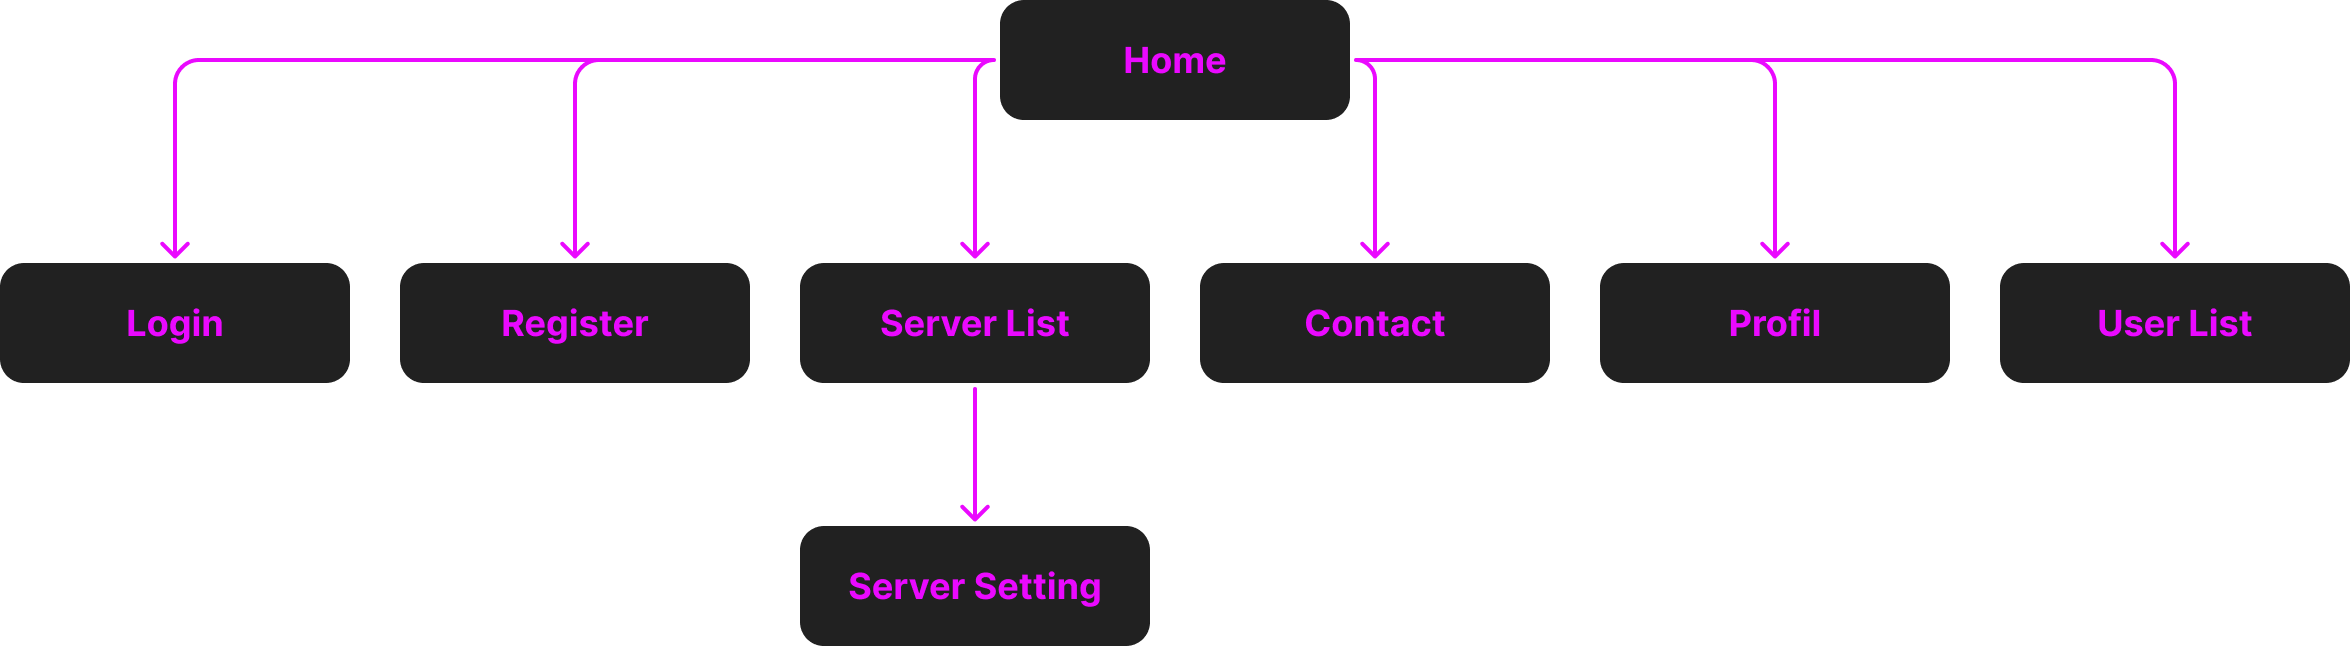
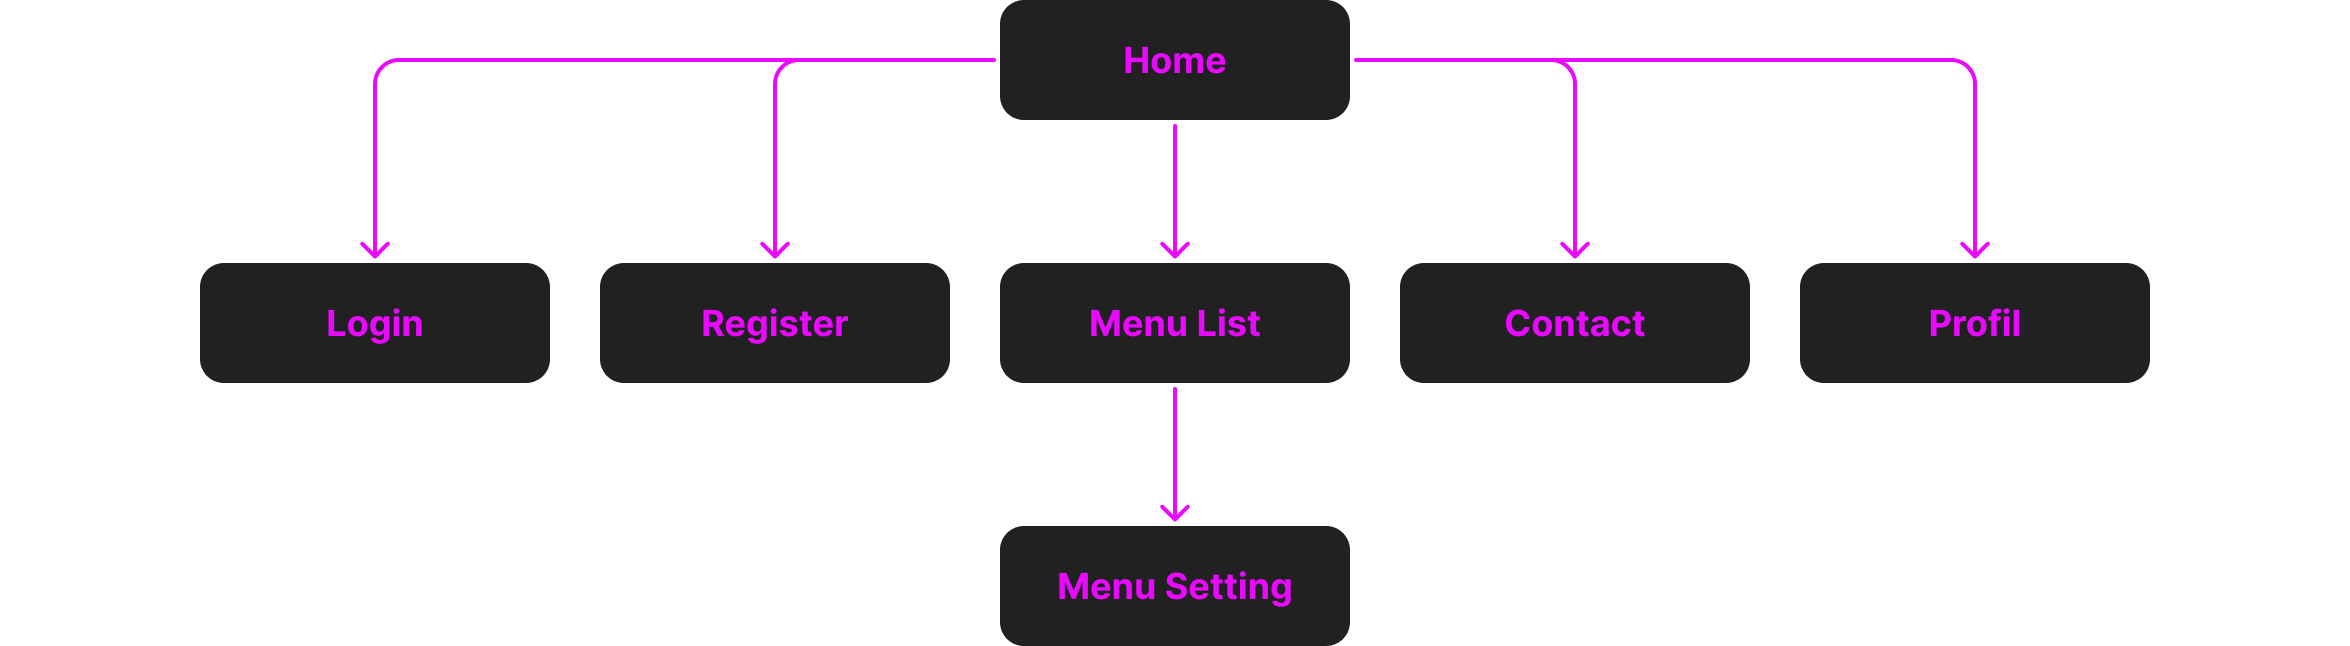
edit CdC : Update

diff --git a/README.md b/README.md
@@ -31,20 +31,24 @@
 6. **SEO & Référencement**
 7. **RGPD/Conditions d'utilisation**
 8. **Planning & suivi du projet**
-   1. *Planning*
-   2. *Groupe de trvail*
+   1. *Planning de la réalisation*
+   2. *Planning de validation*
+   3. *Groupe de trvail*
 
 ## **1. Présentation générale du projet**
 
 ### 1.1 **Contexte**
 
+A la demande d'un client, j'ai du trouvé une solution web pour répondre à sont besoin de modifier du contenu dans du code mais dans un espace no-code.
+
 Le projet « fxGuard » a pour but de permettre la modération/administration et la modification du contenu présent en jeu d’un serveur FiveM, le tout dans un espace no-code.  
 Les serveurs FiveM sont des serveurs de jeux basés sur GTA5 permettant l’ajout de fonctionnalité et de contenu, comme l’ajout de voiture, chat de proximité, etc.
 FxGuard pourra par exemple modifier le catalogue de voitures mis en vente en donnant le prix, la vitesse, une photo, etc. du véhicule directement présent dans le jeu.
 
-### 1.2 **Objectif(s) qualitatif(s) et/ou quantitatif(s) du site**
+### 1.2 **Objectif(s) qualitatif(s)**
 
-- Créer une interface graphique permettant aux administrateurs d’interagir avec le contenu présent en jeu.
+- Créer une interface lisible et facile à comprendre.
+- Avoir un site responsive pour s'adapter à tout type de support
 
 ### 1.3 **Cible(s) du site / de l'application**
 
@@ -57,9 +61,50 @@ Le site Web a pour vocation à être utilisé par une tranche de public assez va
 
 ### 2.1 **Description fonctionnelle**
 
-Lorsque l’utilisateur n’est pas authentifié, une page de promotion de l'interface avec toutes les fonctionnalités proposées sera affichée. Une partie proposera de s’inscrire ou de se connecter.
+1. Inscription
+   - Un formulaire d'inscription demandant : pseudo, e-mail et mot de passe.
 
-Si l’utilisateur souhaite s’inscrire, il devra renseigner un formulaire pour récupérer ses informations et avoir un espace dédié.
+2. Connexion
+   - Formulaire de connexion demandant l'identifiant et le mot de passe.
+
+3. Deconnexion
+   - Bouton de deconnexion
+
+4. Profil utilisateur
+   - Les utilisateurs pourront modifier les données renseignées lors de l'inscription.
+
+5. Rubrique de promotion
+   - Dans la page d'accueil, un paragraphe de promotion donnant les avantages à utiliser notre solution.
+
+6. Contact
+   - Un formulaire de contact sera mis à disposition pour tous les utilisateurs.
+
+7. Filter la recherche
+   - Lors d'ajout de vehicule à un menu un bandeau de filtre avec une zone de recherche seras mis à disposition de l'utilisateur.
+
+8. Ajouter des vehicules
+   - Ajouter des vehicules au menu.
+
+9.  Retirer des vehicules
+   - Retirer des vehicules au menu.
+
+10. Créer plusieurs menus
+    - Possiblité de créer plusieurs sans écraser le précédent.
+
+11. Supprimer un menu
+    - Possibilité de supprimer un/des menus.
+
+12. Modifier un menu
+    - Possibilité de modifier un menu déja créer.
+
+13. List des utilisateurs
+    - En tant qu'administrateur j'ai accés à la liste de tout les utilisateurs inscrit
+  
+14. Promouvoir un utilisateur
+    - Je peux promouvoir un utilisateur au rang d'administrateur
+
+
+<!-- Si l’utilisateur souhaite s’inscrire, il devra renseigner un formulaire pour récupérer ses informations et avoir un espace dédié.
 
 Une fois connecté, l'utilisateur aura accès à une liste de serveurs utilisant mon interface web et auxquels il a accès. Il devra alors choisir le serveur qu'il souhaite administrer. Une fois son choix fait, il accèdera à un menu proposant différentes fonctionnalités.
 
@@ -73,7 +118,7 @@ Grâce à ce menu, il pourra :
 
 En tant qu’administrateur authentifié, nous avons accès à la liste de tous les serveurs utilisant notre solution, ainsi qu'à tous les comptes créés. Une fois un serveur sélectionné, nous avons accès au même menu que les utilisateurs authentifiés, à la différence que nous pouvons modifier certains éléments qui ne pouuront pas être re modifié par l'utilisateur authentifié, ainsi que des champs auxquels il n'a accès qu'en lecture.
 
-Nous pouvons également ajouter ou retirer des droits d’accès aux panels des serveurs.
+Nous pouvons également ajouter ou retirer des droits d’accès aux panels des serveurs. -->
 
 ### 2.2 **User story**
 
@@ -91,29 +136,21 @@ Nous pouvons également ajouter ou retirer des droits d’accès aux panels des 
 
 - Je veux remplir un formulaire d'inscription afin de créer un compte et accéder à un espace dédié.
 
-- Je veux pouvoir me connecter à mon compte pour accéder aux serveurs auxquels j'ai droit.
+- Je veux pouvoir me connecter à mon compte pour accéder aux menus aux quels j'ai droit.
 
 #### Scénario 3 : Sélection d'un serveur
 
 ##### En tant qu'utilisateur authentifié,
 
-- Je veux voir une liste des serveurs auxquels j'ai accès.
+- Je veux voir une liste des menus personnalisés auxquels j'ai accès.
 
-- Je veux pouvoir choisir un serveur pour l'administrer.
+- Je veux avoir accès à des menus déjà faits.
 
-- Une fois mon serveur sélectionné, je veux accéder à un menu d'administration proposant différentes fonctionnalités.
+- Je veux pour voir modifier les menus déjà préfaits.
 
-#### Scénario 4 : Accès au dashboard du serveur
+#### Scénario 4 : Gestion des menus accessibles aux joueurs
 
-##### En tant qu'utilisateur administrateur d'un serveur,
-
-- Je veux voir un dashboard affichant les informations principales du serveur.
-
-- Je veux voir le nombre de joueurs connectés avec leur ID en jeu, leur pseudo ainsi que le nom et prénom de leurs personnages.
-
-#### Scénario 5 : Gestion des menus accessibles aux joueurs
-
-##### En tant qu'utilisateur administrateur d'un serveur,
+##### En tant qu'utilisateur authentifié,
 
 - Je veux pouvoir modifier les menus disponibles en jeu.
 
@@ -121,37 +158,19 @@ Nous pouvons également ajouter ou retirer des droits d’accès aux panels des 
 
 - Je veux voir toutes les données d'un véhicule, y compris : type, nom, images, vitesse maximale et marque.
 
-#### Scénario 6 : Accès à la console et aux logs
+#### Scénario 5 : Gestion des accès
 
-##### En tant qu'utilisateur administrateur d'un serveur,
+##### En tant qu'utilisateur authentifié,
 
-- Je veux avoir accès à la console du serveur pour exécuter des commandes.
+- Je veux pouvoir accorder l'accès à d'autres personnes pour modifier les menus avec moi.
 
-- Je veux pouvoir consulter les logs détaillés de toutes les interactions entre l'interface et le serveur.
-
-#### Scénario 7 : Gestion des accès
-
-##### En tant qu'utilisateur administrateur d'un serveur,
-
-- Je veux pouvoir accorder l'accès à d'autres personnes pour administrer le serveur avec moi.
-
-- Je veux pouvoir gérer les autorisations et les rôles des utilisateurs sur le panel.
-
-#### Scénario 8 : Administration globale pour les administrateurs de la solution
+#### Scénario 6 : Administration globale pour les administrateurs de la solution
 
 ##### En tant qu'administrateur de la solution,
 
-- Je veux voir la liste de tous les serveurs utilisant notre interface.
-
 - Je veux voir la liste de tous les comptes créés sur la plateforme.
-
-- Je veux pouvoir sélectionner un serveur et accéder à son menu d'administration.
-
-- Je veux avoir des droits supplémentaires me permettant de modifier certains éléments non modifiables par un utilisateur classique.
-
-- Je veux pouvoir accéder à des champs en lecture seule pour les utilisateurs classiques.
-
-- Je veux pouvoir ajouter ou retirer des droits d'accès aux panels des serveurs.
+- Je veux pouvoir créer des menus que les utilisateurs peuvent utilisé
+- Je veux pouvoir promouvoir un utilisateur en administrateur
 
 
 ### 2.3 **Arborescence du site / navigation**
@@ -167,21 +186,23 @@ Nous pouvons également ajouter ou retirer des droits d’accès aux panels des 
 
 ### 2.4 **Restriction d'accès**
 
-| Pages          | Non-Authentifié | Authentifié | Administrateur |
-| -------------- | --------------- | ----------- | -------------- |
-| Home           | X               | X           | X              |
-| Login          | X               | X           | X              |
-| Register       | X               | X           | X              |
-| Contact        | X               | X           | X              |
-| Server Liste   |                 | X           | X              |
-| Server Setting |                 | X           | X              |
-| Profil         |                 | X           | X              |
-| User List      |                 |             | X              |
+| Pages        | Non-Authentifié | Authentifié | Administrateur |
+| ------------ | --------------- | ----------- | -------------- |
+| Home         | X               | X           | X              |
+| Login        | X               | X           | X              |
+| Register     | X               | X           | X              |
+| Contact      | X               | X           | X              |
+| Menu Liste   |                 | X           | X              |
+| Menu Setting |                 | X           | X              |
+| Profil       |                 | X           | X              |
+| Back Home    |                 |             | X              |
+| User List    |                 |             | X              |
+| Creat Menu   |                 |             | X              |
 
 
 ### 2.5 **Layout ou wireframe des pages**
 
-*Structure de la page d'Accueilp :*                                           
+*Structure de la page d'Accueil :*                                           
 
 ![wireframeDesktop](./images/wireframes/wireframeHome.png)
 
@@ -213,8 +234,8 @@ Et un accent sur l'accessibilité sera fait.
 
 - **Frontend** :
   - Langages : HTML, CSS, JavaScript
-  - Bibliothèques et API REST
-  - Outils : SASS
+  - API REST
+  - Préprocesseur : SASS
 - **Backend** :
   - Architecture : Model View Controller
   - Langage : PHP, SQL
@@ -224,13 +245,10 @@ Et un accent sur l'accessibilité sera fait.
 
 Pour garantir un niveau de sécurité optimal sur la plateforme, les lignes directrices suivantes seront appliquées tant au niveau du front-end que du back-end :
 
-- **Privilèges minimaux pour l'accès à la base de données** : Un utilisateur avec les privilèges minimaux nécessaires pour effectuer des requêtes sur la base de données sera créé, afin de limiter l'accès et les actions possibles.
   
 - **Validation et assainissement des données** : Des mécanismes de validation et d’assainissement des données seront utilisés pour toutes les données reçues des utilisateurs via les formulaires de contact, d’enregistrement et d’authentification. Ces données seront systématiquement nettoyées avant toute utilisation dans des requêtes à la base de données pour prévenir les attaques par injection SQL.
   
-- **Protection contre les attaques XSS** : Des fonctions sécuritaires, telles que `htmlentities()` et `html_entity_decode()`, seront appliquées afin de convertir les caractères spéciaux en entités HTML et ainsi éviter les attaques de type Cross-Site Scripting (XSS) en désinfectant les entrées de l’utilisateur.
-
-- **Utilisation de PDO pour les interactions avec la base de données** : L’interface PDO (PHP Data Objects) sera utilisée pour interagir avec la base de données. Pour chaque requête, des instructions préparées seront systématiquement privilégiées, afin d’assurer une sécurité maximale contre les injections SQL. De plus, les préparations émulées seront désactivées pour forcer l’utilisation de vrais préparations de requêtes.
+- **Protection contre les attaques XSS** : Des fonctions sécuritaires, telle que `htmlspecialchars()`, seront appliquées afin de convertir les caractères spéciaux en entités HTML et ainsi éviter les attaques de type Cross-Site Scripting (XSS) en désinfectant les entrées de l’utilisateur.
 
 - **Validation stricte des entrées utilisateurs** : Toutes les entrées utilisateurs seront également soumises à une validation stricte (types, formats, etc.) pour s'assurer qu'elles respectent les critères attendus avant d’être traitées ou stockées.
 
@@ -244,8 +262,6 @@ Afin de réduire l'empreinte écologique du projet fxGuard, plusieurs mesures se
 - **Optimisation des performances** : Réduction des requêtes serveur et optimisation du code pour limiter la consommation énergétique.
 - **Hébergement vert : Utilisation** d’un hébergement écoresponsable, fonctionnant avec des énergies renouvelables.
 - **Compression des ressources** : Minimisation et compression des fichiers CSS, JavaScript et images pour réduire la bande passante utilisée.
-- **Dark mode par défaut** : Réduction de la consommation d'énergie sur les écrans OLED et AMOLED.
-- **Durabilité du développement** : Adoption de bonnes pratiques de développement pour assurer la maintenance et l'évolution du projet sans surconsommation de ressources.
   
 Ces actions visent à améliorer l’impact environnemental du projet tout en garantissant une expérience utilisateur fluide et performante.
 
@@ -255,10 +271,8 @@ L'accessibilité est une priorité afin de garantir une expérience utilisateur 
 - **Respect des normes WCAG** : Le site respectera les directives du W3C en matière d'accessibilité numérique (WCAG 2.1, niveau AA minimum).
 - **Navigation au clavier** : Toutes les fonctionnalités seront accessibles sans souris, en utilisant uniquement le clavier (tabulation, raccourcis).
 - **Contraste et lisibilité** : Les couleurs et typographies seront choisies pour assurer un bon contraste et une lecture aisée, même pour les personnes malvoyantes.
-- **Compatibilité avec les lecteurs d'écran** : L’ensemble du site sera conçu pour être compatible avec les technologies d’assistance, telles que les lecteurs d’écran (ex. NVDA, JAWS, VoiceOver).
 - **Textes alternatifs pour les images** : Toutes les images informatives incluront des descriptions textuelles (attributs alt) pour garantir leur compréhension par les utilisateurs malvoyants.
-- **Adaptabilité aux différentes tailles d’écran** : L'interface sera entièrement responsive et optimisée pour différents types d’écrans, y compris mobiles et tablettes.
-- **Modes d’affichage alternatifs** : Un mode haute visibilité et un mode daltonien seront proposés pour améliorer l’expérience des utilisateurs ayant des déficiences visuelles.
+- **Adaptabilité aux différentes tailles d’écran** : L'interface sera entièrement responsive et optimisée pour différents types d’écrans, y compris mobiles et tablettes (Mobile First).
 
 Ces actions assureront une meilleure accessibilité et permettront au plus grand nombre d’utiliser l’interface sans obstacles.
 
@@ -282,21 +296,22 @@ fxGuard accorde une importance primordiale à la protection des données des uti
 
 ### 8.1 **Planning**
 
-| Activité                                          | Février S1 | Février S2 | Février S3 | Février S4 | Mars S1 | Mars S2 | Mars S3 | Mars S4 | Avril S1 | Avril S2 |
-| ------------------------------------------------- | ---------- | ---------- | ---------- | ---------- | ------- | ------- | ------- | ------- | -------- | -------- |
-| **Cahier des charges**                            | 🔵          | 🔵          | 🔵          | 🔵          | 🔵       |         |         |         |          |          |
-| **Conception et mise en page**                    |            |            |            |            | 🟡       | 🟡       |         |         |          |          |
-| **Conception et élaboration de bases de données** |            |            |            |            |         | 🟢       | 🟢       |         |          |          |
-| **Création d'un backend**                         |            |            |            |            |         |         | 🟠       | 🟠       |          |          |
-| **Création de frontend**                          |            |            |            |            |         |         |         |         | 🔴        | 🔴        |
+| Activité                                                                                            | Février S1 | Février S2 | Février S3 | Février S4 | Mars S1 | Mars S2 | Mars S3 | Mars S4 | Avril S1 | Avril S2 |
+| --------------------------------------------------------------------------------------------------- | ---------- | ---------- | ---------- | ---------- | ------- | ------- | ------- | ------- | -------- | -------- |
+| **Cahier des charges** -> *Chef de projet*                                                          | 🔵          | 🔵          | 🔵          | 🔵          | ⚪       |         |         |         |          |          |
+| **Conception et mise en page** -> *Graphiste & UX/UI designer*                                      |            |            |            |            | 🟡       | ⚪       |         |         |          |          |
+| **Conception et élaboration de bases de données**  -> *Développeur Base de données*                 |            |            |            |            |         | 🟢       | ⚪       |         |          |          |
+| **Création d'un backend** -> *Développeur Backend & Responsable Qualité et Tests & Expert Sécurité* |            |            |            |            |         |         | 🟠       | ⚪       |          |          |
+| **Création de frontend** -> *Développeur Frontend & Responsable Qualité & Tests & Référenceur SEO*  |            |            |            |            |         |         |         |         | 🔴        | ⚪        |
 
 🔵 = Cahier des charges  
 🟡 = Conception et mise en page  
 🟢 = Bases de données  
 🟠 = Backend  
 🔴 = Frontend
+⚪ = Validation avec le client
 
-### 8.2 ** Groupe de travail**
+### 8.2 **Groupe de travail**
 
 | **Rôle**                        | **Nom**           | **Responsabilités**                                                                                                                    |
 | ------------------------------- | ----------------- | -------------------------------------------------------------------------------------------------------------------------------------- |
